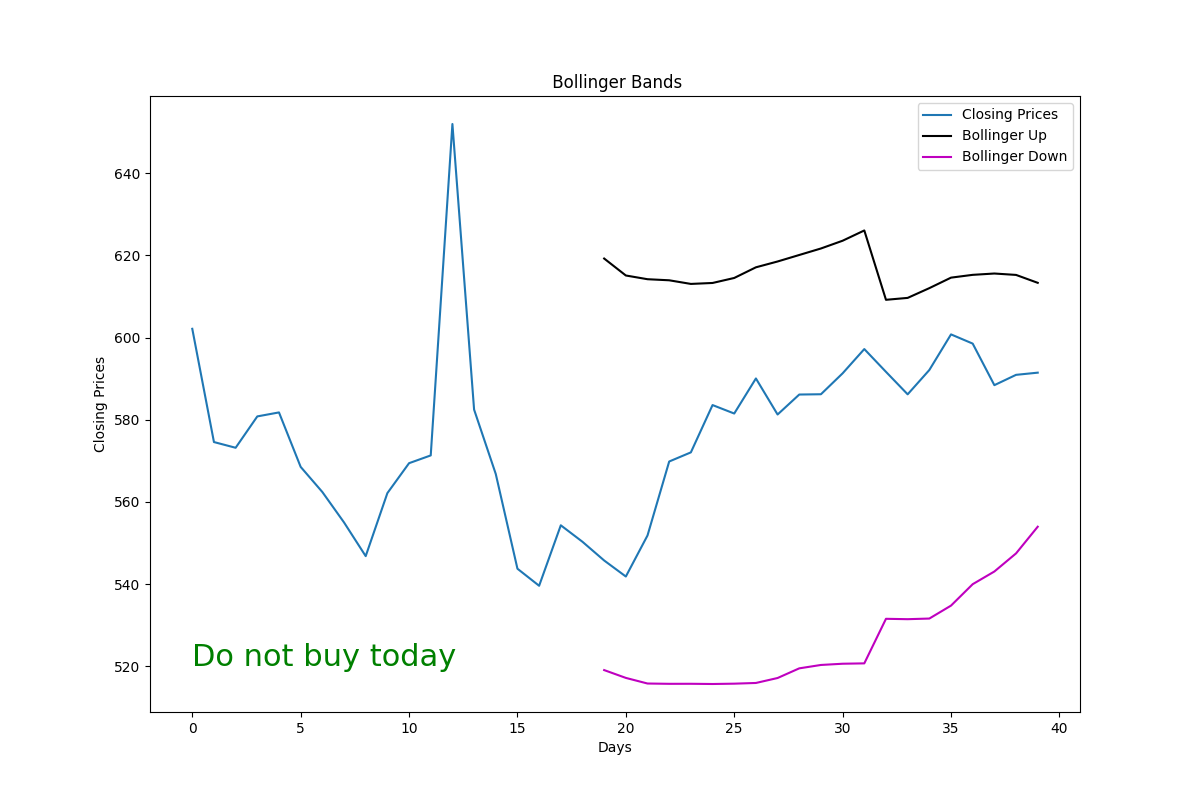
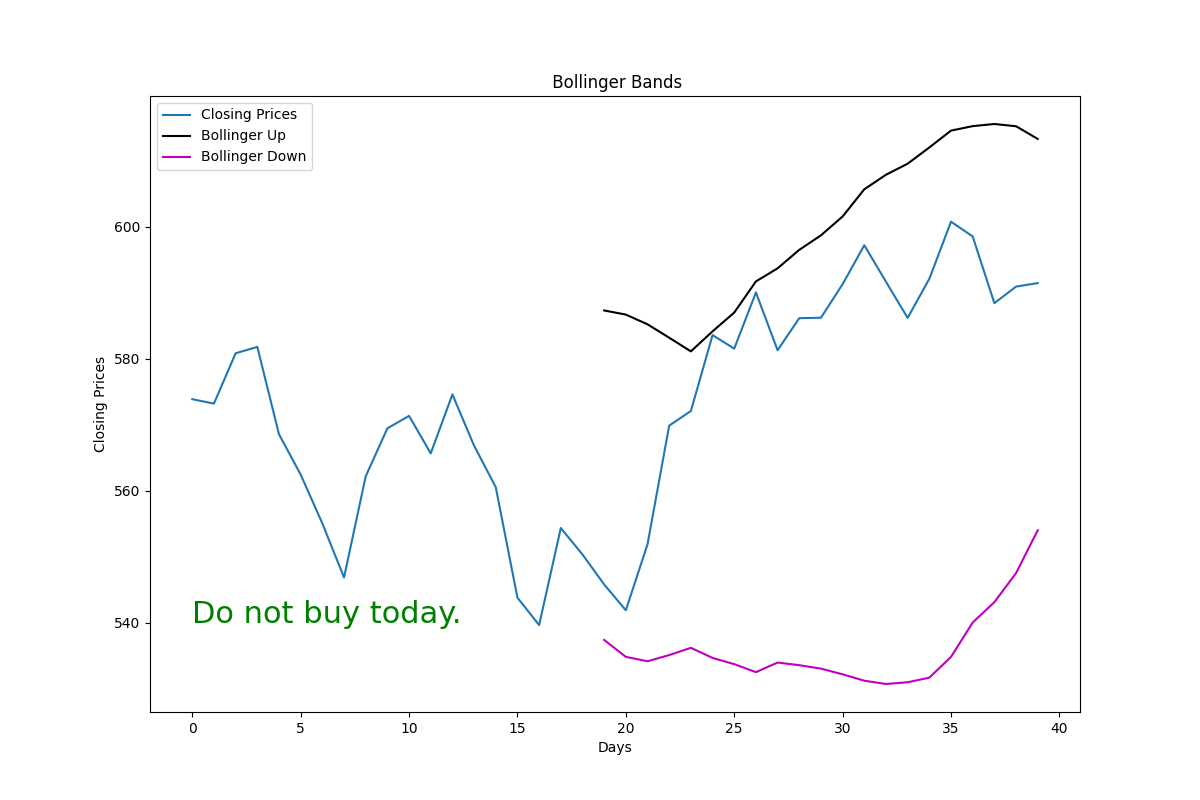
Corrected historical data, removed duplicate function in Bollinger Bands analyses, and updated Bollinger Bands chart, added timing of Bollinger Bands analysis and Success output message

diff --git a/gsef_bollinger_bands.py b/gsef_bollinger_bands.py
@@ -1,9 +1,15 @@
+## Bollinger Bands
+
+import timeit
+start_time = timeit.default_timer()
+
+# Import libraries
 import numpy as np
 import pandas as pd
 import matplotlib.pyplot as plt
-
-## Bollinger Bands
-
+import time
+import datetime
+import io
 
 def get_num_lines(fname):
     with open(fname) as f:
@@ -32,28 +38,16 @@ df.index = np.arange(df.shape[0])
 
 bollinger_up, bollinger_down = get_bollinger_bands(closing_prices)
 
-def get_sma(prices, rate):
-    return prices.rolling(rate).mean()
-
-def get_bollinger_bands(prices, rate= 20):
-    sma = get_sma(prices, rate)
-    std = prices.rolling(rate).std()
-    bollinger_up = sma + std * 2 # Calculate top band
-    bollinger_down = sma - std * 2 # Calculate bottom band
-    return bollinger_up, bollinger_down
-
-df.index = np.arange(df.shape[0])
-
-bollinger_up, bollinger_down = get_bollinger_bands(closing_prices)
-
 last_down_bollinger= bollinger_down.iloc[-1]
 
 last_closing_price= df.iloc[-1]['Close']
 
 if last_down_bollinger < last_closing_price:
-    to_do= 'Do not buy today'
+    to_do= 'Do not buy today.'
+elif last_up_bollinger < last_closing_price:
+    to_do= 'Sell today.'
 else:
-    to_do= 'Buy today'
+    to_do= 'Buy today.'
     
 from matplotlib.pyplot import figure
 
@@ -68,7 +62,7 @@ plt.plot(bollinger_down, label='Bollinger Down', c='m')
 plt.legend()
 
 #adding text inside the plot
-plt.text(0, 520, to_do, fontsize = 22, c='g')
+plt.text(0, 540, to_do, fontsize = 22, c='g')
 
 bollinger_bands_chart= 'gsef_folder/bollinger_bands.png'
 
@@ -81,3 +75,14 @@ else:
 plt.savefig('gsef_folder/bollinger_bands.png', dpi=100)
 
 #plt.show()
+
+# Calculate and print the time elapsed to run ETL process and the date and time of the latest run
+time_elapsed = timeit.default_timer() - start_time
+
+time_elapsed_minutes = int((time_elapsed % 3600) // 60)
+
+time_elapsed_seconds = int(time_elapsed % 60)
+
+now = datetime.datetime.now()
+
+print("\n Success! Your Bollinger Bands chart has been updated in {} minutes and {} seconds on {}".format(time_elapsed_minutes, time_elapsed_seconds, now.strftime("%Y-%m-%d %H:%M:%S")))
